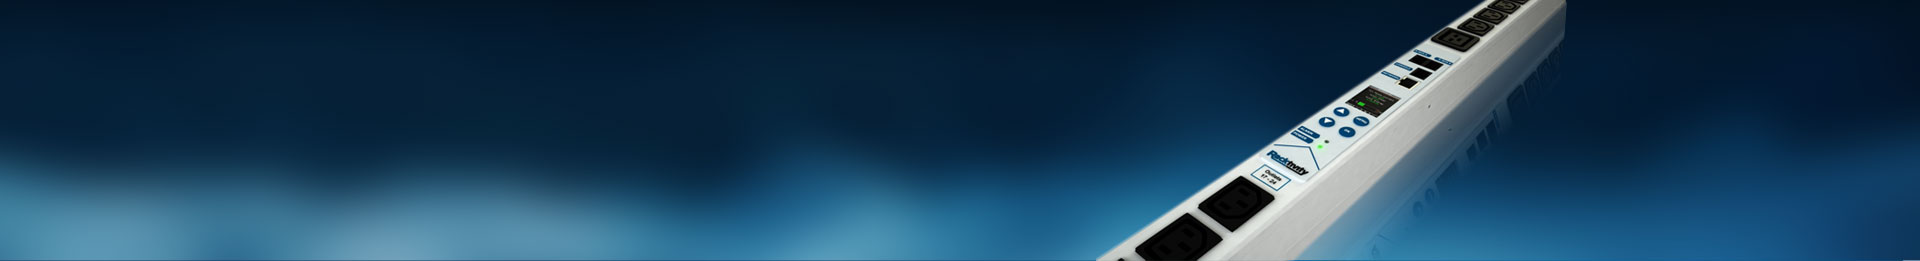
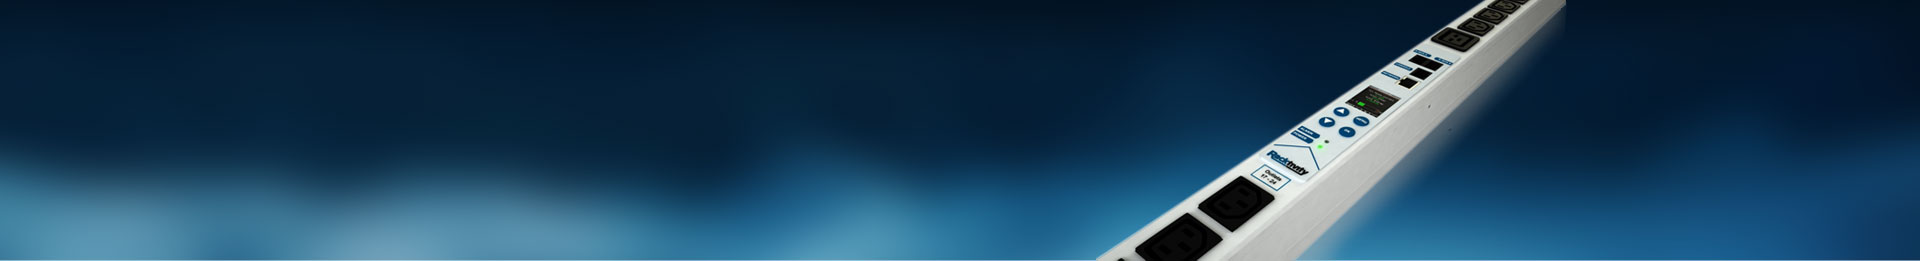
update racktivity slider

Changed region(s): [[0.6562, 0.1533, 1.0, 1.0], [0.0, 0.9808, 0.5625, 1.0]]

diff --git a/www.racktivity.com/themes/landing/static/css/custom.css b/www.racktivity.com/themes/landing/static/css/custom.css
@@ -94,10 +94,14 @@ header a { color: #FFF; }
 .footer-shape { display: inline-block; position: absolute; width: 44px; height: 58px; background: #454545; left: -29px; -webkit-transform: skew(-26deg); transform: skew(-26deg); top: 0px; }
 .copy-text { line-height: 58px; color: #7a7a7a; }
 .navbar-default .navbar-collapse, .navbar-default .navbar-form { border: 0; }
+.gray-box{background-color: rgba(0,0,0,0.6);border-radius: 5px;}
+.gray-box h1{padding: 15px;}
+.gray-box h4{padding: 15px;}
+.gray-box span{padding: 15px;}
 .carousel-caption { text-align: left; top: 0; padding-top: 70px; }
 .carousel-caption h1 { color: #21a6df; font-family: 'neotechalt-bold'; text-shadow: none; font-size: 36px; }
-.carousel-caption h4 { font-size: 26px; color: #4c4c4c; text-shadow: none; max-width: 690px; line-height: 34px; margin: 15px 0 11px 0; }
-.carousel-caption span { font-size: 18px; color: #333; text-shadow: none; font-family: 'neotechalt-bold'; display: block; }
+.carousel-caption h4 { font-size: 26px; color: #fff; text-shadow: none; max-width: 690px; line-height: 34px; margin: 15px 0 11px 0; }
+.carousel-caption span { font-size: 18px; color: #fff; text-shadow: none; font-family: 'neotechalt-bold'; display: block; }
 .carousel-caption p { font-size: 20px; text-shadow: none; font-style: italic; float: left; display: inherit; max-width: 1110px; }
 .carousel-caption input { display: block; border: 0; background: rgba(33, 166, 223, 0.8); padding: 8px 30px; margin: 160px 0 20px 0; -webkit-border-radius: 5px; -moz-border-radius: 5px; border-radius: 5px; }
 .navbar-default .navbar-toggle .icon-bar { background-color: #FFF; }

diff --git a/www.racktivity.com/themes/landing/layouts/partials/home_page/about_racktivity.html b/www.racktivity.com/themes/landing/layouts/partials/home_page/about_racktivity.html
@@ -6,8 +6,8 @@
         <div class="row">
           <div class="col-md-6 video-side nopadding">
             <div class="media">
+            <!-- <iframe width="100%" height="530" src="https://www.youtube.com/embed/HklZFID_3i8" frameborder="0" allowfullscreen></iframe> -->
             <iframe src="//player.vimeo.com/video/61798965?title=0&byline=0&portrait=0" width="100%" height="530" frameborder="0" webkitallowfullscreen mozallowfullscreen allowfullscreen></iframe>
-            <!-- <iframe width="100%" height="530" src="https://www.youtube.com/embed/hKQomEI8Lc8?autoplay=0&showinfo=0&controls=0" frameborder="0" allowfullscreen></iframe> -->
             </div>
           </div>
           <div class="col-md-6 black-part nopadding">

diff --git a/www.racktivity.com/themes/landing/layouts/partials/home_page/intro_slider.html b/www.racktivity.com/themes/landing/layouts/partials/home_page/intro_slider.html
@@ -7,10 +7,13 @@
  <!-- Wrapper for slides -->
     <div class="carousel-inner" role="listbox">
       <div class="item active"> <img src="{{.Params.slider1_pic}}" alt="">
+       
         <div class="carousel-caption">
+          <div class="gray-box">
           <h1>{{.Params.slider1_text1}}</h1>
           <h4>{{.Params.slider1_text2}}</h4>
           <span>{{.Params.slider1_text3}}</span>
+          </div>
           <input type="button" value="{{.Params.slider1_button}}">
           
           <p><i class="fa fa-quote-left"></i>{{.Params.slider1_text4}}<i class="fa fa-quote-right"></i></p>

diff --git a/www.racktivity.com/content/home/intro_slider_box.md b/www.racktivity.com/content/home/intro_slider_box.md
@@ -3,7 +3,7 @@
 title = "intro_slider_box"
 
 
-slider1_pic= "images/slider1.jpg"
+slider1_pic= "images/slider1-1.jpg"
 slider1_text1 = "Racktivity animated data center floor plan"
 slider1_text2 = "Want to find out where the Racktivity products go in your data center?! .. Check out our data center floor plan and find out."
 slider1_text3 = "LEARN ABOUT OUR NEW MODULAR FLEX PDU"
